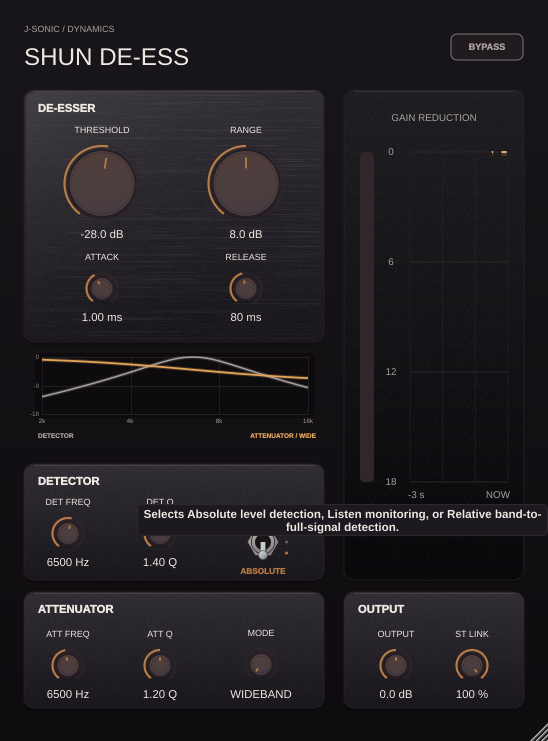
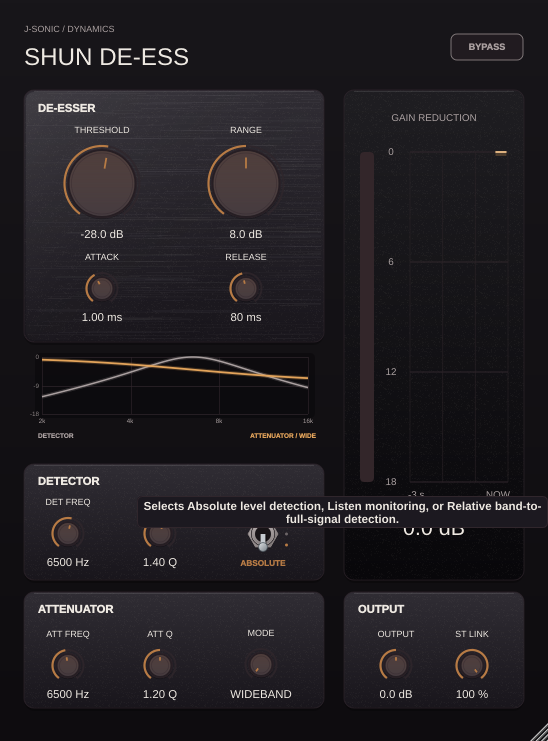
Align Shun detector switch with detector knobs

Changed region(s): [[0.2482, 0.6518, 0.9927, 0.776]]

diff --git a/projects/ShunDeEss/Source/PluginEditor.cpp b/projects/ShunDeEss/Source/PluginEditor.cpp
@@ -791,7 +791,7 @@ void ShunDeEssEditor::resized()
     place (3, 122, 702, 76, 64);
     place (8, 358, 702, 76, 64);
     place (9, 434, 702, 76, 64);
-    detectorMode.setBounds (207, up (570) + 14, 112, 76);
+    detectorMode.setBounds (207, up (570) + 6, 112, 76);
     algorithmLabel.setBounds (205, up (702) + 3, 112, 16);
     algorithm.setBounds (205, up (702) + 19, 112, 65);
 
